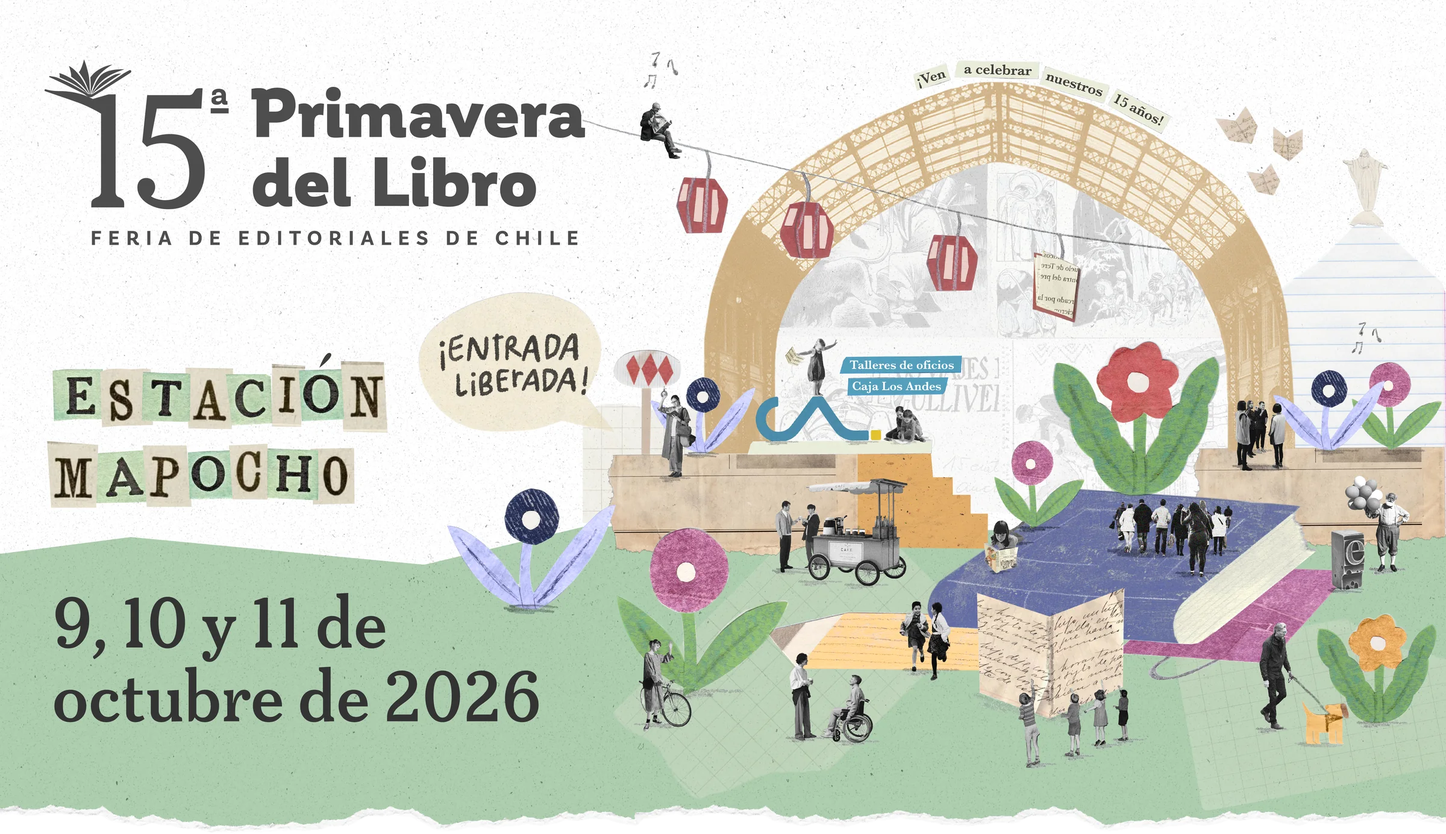
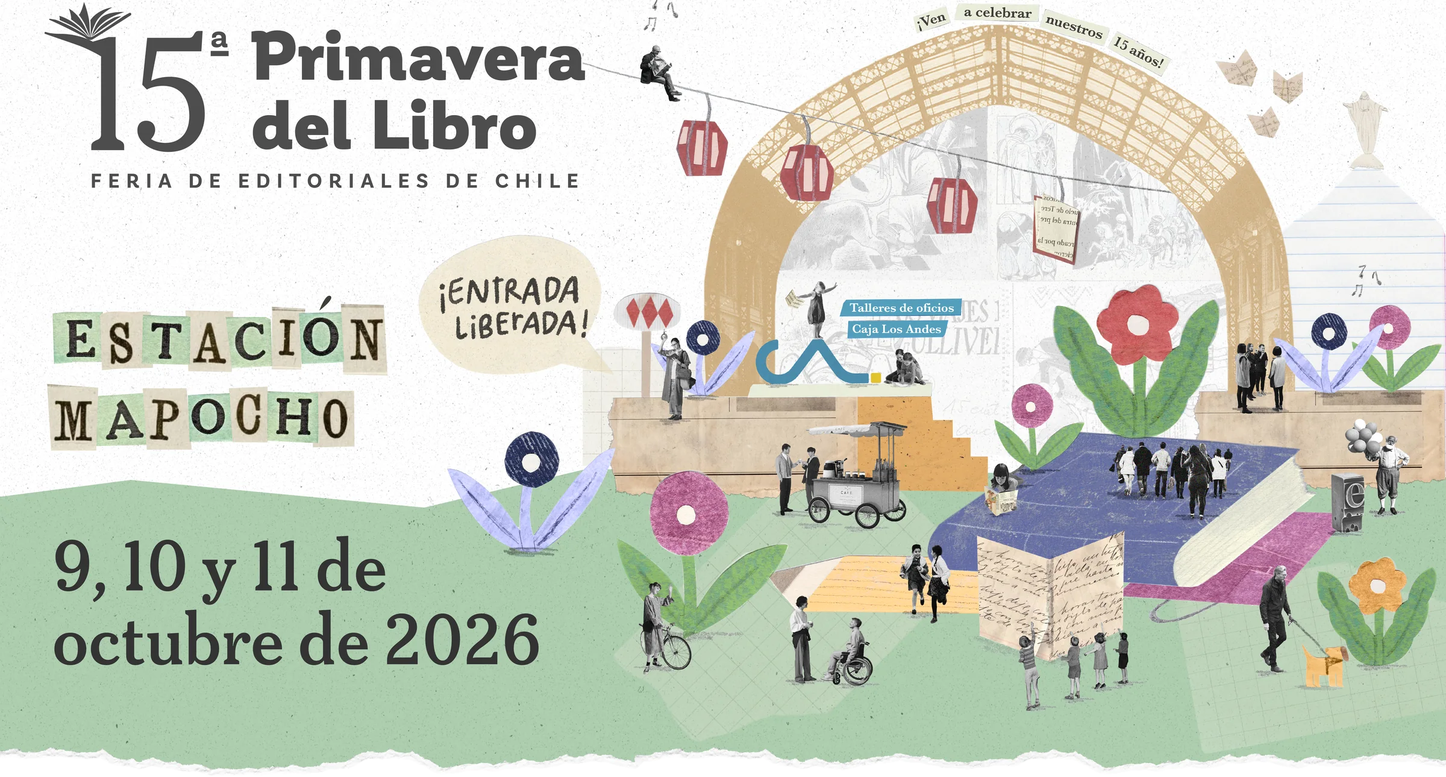
Trim desktop hero vertically, add ticket button to mobile menu and tap feedback
- Hero artwork cropped only in height (max safe crop); full width preserved
- Mobile: "Conseguir ticket" inside the burger menu
- Subtle :active feedback on ticket buttons and menu links

diff --git a/src/components/Navbar/Navbar.css b/src/components/Navbar/Navbar.css
@@ -104,3 +104,20 @@
 @media (max-width: 700px) {
   .site-nav .nav-ticket { display: none; }
 }
+
+/* Botón de ticket dentro del menú desplegable (solo celular; arriba ya no hay botón) */
+.site-nav .nav-ticket-menu { display: none; }
+@media (max-width: 700px) {
+  .site-nav .nav-ticket-menu {
+    display: inline-flex; align-items: center; justify-content: center; margin-top: 8px;
+    font-family: var(--font-title); font-weight: 700; font-size: 18px; letter-spacing: 0.02em;
+    color: var(--cta-text); background: var(--cta-bg); padding: 12px 30px; border-radius: 999px;
+    box-shadow: 0 6px 18px rgba(77, 77, 77, 0.3);
+  }
+}
+
+/* Respuesta al toque (en celular no hay hover): el elemento se encoge un poco mientras se presiona */
+.site-nav .nav-ticket-menu, .site-nav .nav-ticket, .site-nav .nav-link { -webkit-tap-highlight-color: transparent; }
+.site-nav .nav-ticket-menu { transition: transform 0.15s ease, background 0.15s ease, box-shadow 0.15s ease; }
+.site-nav .nav-ticket-menu:active, .site-nav .nav-ticket:active { transform: scale(0.96); background: var(--cta-hover); }
+.site-nav .nav-link:active { color: var(--nav-accent); }

diff --git a/src/pages/Landing/Landing.css b/src/pages/Landing/Landing.css
@@ -367,3 +367,7 @@ section > *:not(.decor) { position: relative; z-index: 1; }
   .hero-section { background: #fefefe; }
   .bienvenida-section { --prev-bg: #fefefe; }
 }
+
+/* Respuesta al toque en los botones de ticket */
+.hero-cta, .ticket-btn { -webkit-tap-highlight-color: transparent; }
+.hero-cta:active, .ticket-btn:active { transform: scale(0.96); background: var(--cta-hover); }

diff --git a/src/components/Navbar/Navbar.jsx b/src/components/Navbar/Navbar.jsx
@@ -69,6 +69,7 @@ export default function Navbar() {
             {link.label}
           </NavLink>
         ))}
+        <a href={TICKET_URL} target="_blank" rel="noopener" className="nav-ticket-menu" onClick={closeMenu}>Conseguir ticket</a>
       </div>
 
       <div className="nav-right">
